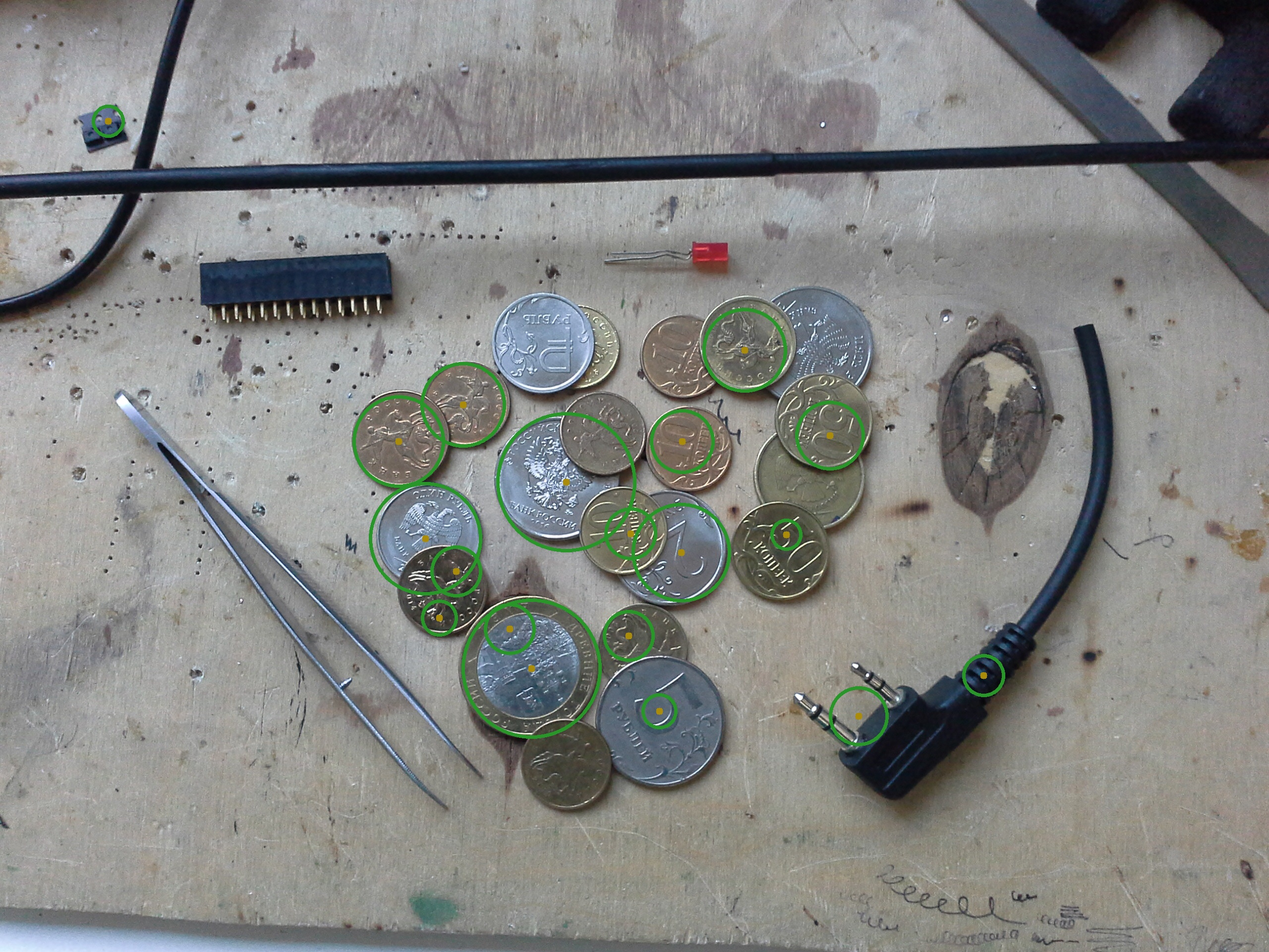
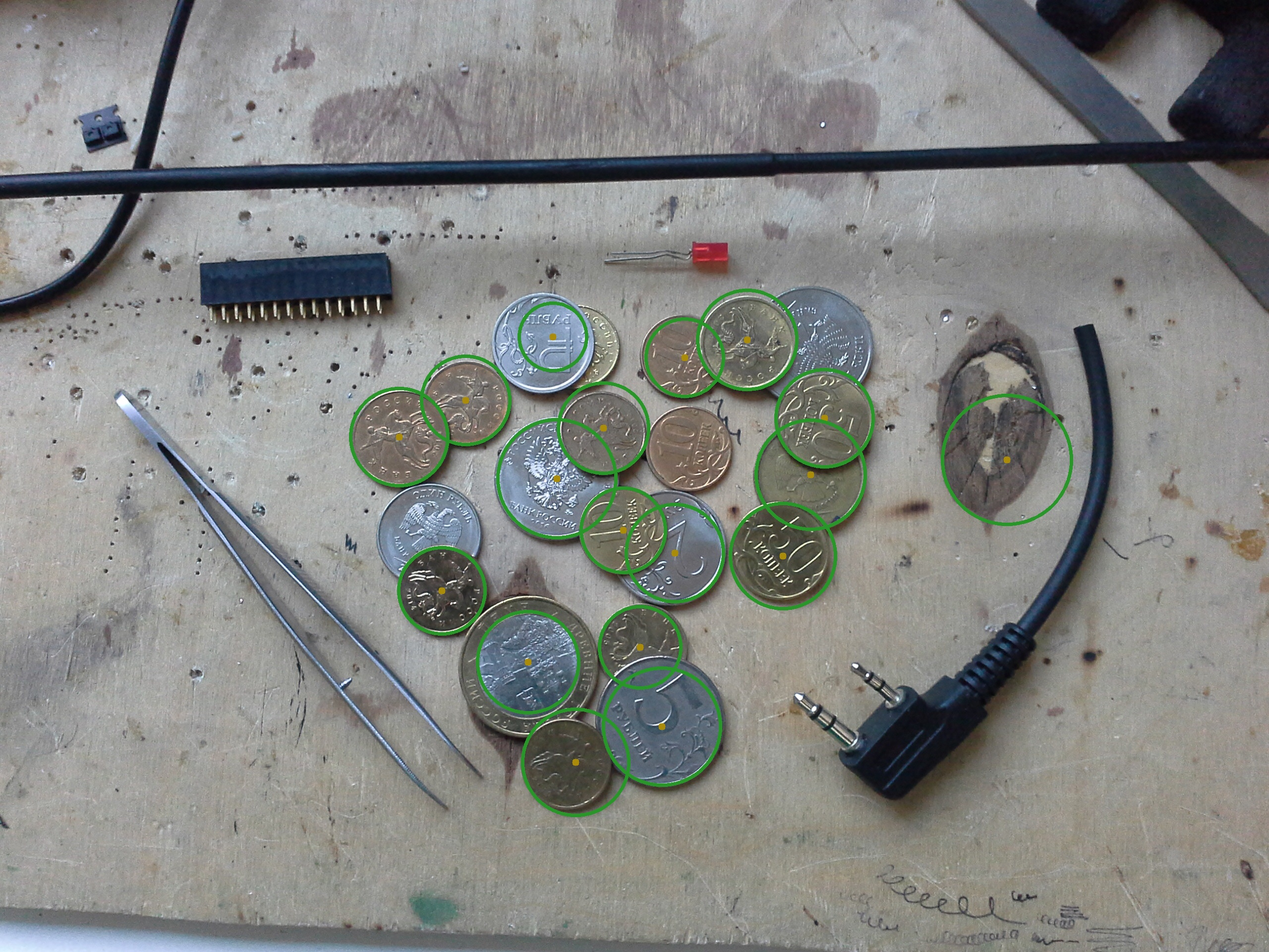
Now with 146% better coin recognition!
And 146x times slower. :(

diff --git a/src.py b/src.py
@@ -2,17 +2,94 @@ import numpy;
 import cv2;
 import os;
 
-IMAGE_PATH_ROOT = "E:\YandexDisk\Learning\TechnoPark\CUDA\TP_CUDA\photos\\";
-IMAGE_PATH_DETECTOR_IN = "detector\\";
-IMAGE_PATH_DETECTOR_OUT = "detector\out\\";
+IMAGE_PATH_ROOT = "E:\YandexDisk\Learning\TechnoPark\CUDA\TP_CUDA\photos\\"
+IMAGE_PATH_DETECTOR_IN = "detector\\"
+IMAGE_PATH_DETECTOR_OUT = "detector\out\\"
+YELLOW_COIN_COLORS_BGR = [
+    # 10 kops
+    ([45, 65, 85], [45, 65, 85]),       #55412d
+    ([24, 32, 45], [24, 32, 45]),       #2d2018
+    ([30, 45, 59], [30, 45, 59]),       #3b2d1e
+    ([29, 65, 88], [29, 65, 88]),       #58411d
+    ([24, 32, 44], [24, 32, 44]),       #2c2018
+    ([29, 44, 72], [29, 44, 72]),       #482c1d
+    ([35, 58, 88], [35, 58, 88]),       #583a23
+    # 50 kops
+    ([32, 54, 72], [32, 54, 72]),       #483620
+    ([28, 56, 80], [28, 56, 80]),       #50381c
+    ([33, 48, 60], [33, 48, 60]),       #3c3021
+        # enlightened
+    ([96, 167, 208], [96, 167, 208]),   #d0a760
+    ([63, 121, 157], [63, 121, 157]),   #9d793f
+    # 10 roubles
+    ([28, 55, 74], [28, 55, 74]),       #4a371c
+]
+YELLOW_COIN_COLOR_BOUNDARY = ([-10, -10, -15], [15, 15, 20])
+SILVER_COIN_COLORS_BGR = [
+    # 5 roubles
+    ([69, 77, 86], [69, 77, 86]),       #564d45
+    ([68, 73, 76], [68, 73, 76]),       #4c4944
+    ([59, 60, 66], [59, 60, 66]),       #423c3b
+        # enlightened
+    ([124, 173, 202], [124, 173, 202]), #caad7c
+    ([181, 155, 134], [181, 155, 134]), #869bb5
+    #([173, 150, 130], [173, 150, 130]), #8296ad
+    #([141, 126, 112], [141, 126, 112]), #707e8d
+    # 1 rouble
+    ([55, 63, 74], [55, 63, 74]),       #4a3f37
+    # 2 roubles
+    ([59, 65, 72], [59, 65, 72]),       #48413b
+        # enlightened
+    ([136, 188, 210], [136, 188, 210]), #d2bc88
+    # 10 roubles
+    ([82, 85, 86], [82, 85, 86]),       #565552
+]
+SILVER_COIN_COLOR_BOUNDARY = ([-15, -15, -15], [15, 15, 15])
+
+def print_image(image):
+    cv2.namedWindow('image', cv2.WINDOW_NORMAL)
+    cv2.imshow('image', image)
+    cv2.resizeWindow('image', 1024, 768)
+    cv2.waitKey(0)
+
+def apply_masks(image):
+    masked_image = numpy.zeros(image.shape, numpy.uint8)
+    for (lower, upper) in YELLOW_COIN_COLORS_BGR:
+        lower = list(map(sum, zip(lower, YELLOW_COIN_COLOR_BOUNDARY[0])))
+        lower = numpy.array(lower, dtype="uint8")
+        upper = list(map(sum, zip(upper, YELLOW_COIN_COLOR_BOUNDARY[1])))
+        upper = numpy.array(upper, dtype="uint8")
+
+        mask = cv2.inRange(image, lower, upper)
+        current_masked_image = cv2.bitwise_and(image, image, mask=mask)
+        masked_image = cv2.bitwise_or(masked_image, current_masked_image)
+
+    for (lower, upper) in SILVER_COIN_COLORS_BGR:
+        lower = list(map(sum, zip(lower, SILVER_COIN_COLOR_BOUNDARY[0])))
+        lower = numpy.array(lower, dtype="uint8")
+        upper = list(map(sum, zip(upper, SILVER_COIN_COLOR_BOUNDARY[1])))
+        upper = numpy.array(upper, dtype="uint8")
+
+        mask = cv2.inRange(image, lower, upper)
+        current_masked_image = cv2.bitwise_and(image, image, mask=mask)
+        masked_image = cv2.bitwise_or(masked_image, current_masked_image)
+
+    return masked_image
+"""
+    cv2.namedWindow('images', cv2.WINDOW_NORMAL)
+    cv2.imshow("images", numpy.hstack([image, masked_image]))
+    cv2.resizeWindow('images', 2048, 768)
+    cv2.waitKey(0)
+"""
 
 def preprocess_image(image):
-    smoother = numpy.ones((13, 13), numpy.float32) / (10*10);
-    smoothed = cv2.filter2D(image, -1, smoother);
-    blurred = cv2.GaussianBlur(smoothed, (15, 15), 0);
-    #bilatered = cv2.bilateralFilter(image, 45, 160, 200);  # http://docs.opencv.org/3.0-beta/modules/imgproc/doc/filtering.html?highlight=bilateral#cv2.bilateralFilter
-    thresholded = cv2.adaptiveThreshold(blurred, 255, cv2.ADAPTIVE_THRESH_GAUSSIAN_C, cv2.THRESH_BINARY, 15, 1.7);
-    return thresholded;
+    blurred = cv2.GaussianBlur(image, (15, 15), 0)
+    masked = apply_masks(blurred)
+    masked = cv2.cvtColor(masked, cv2.COLOR_BGR2GRAY)
+    #thresholded = cv2.adaptiveThreshold(masked, 255, cv2.ADAPTIVE_THRESH_GAUSSIAN_C, cv2.THRESH_BINARY, 15, 1.7)
+    _,  thresholded = cv2.threshold(masked, 10, 255, cv2.THRESH_BINARY_INV )
+    blurred_again = cv2.GaussianBlur(thresholded, (37, 37), 0)
+    return blurred_again
 """
     cv2.namedWindow('original', cv2.WINDOW_NORMAL);
     cv2.namedWindow('smoothed', cv2.WINDOW_NORMAL);
@@ -32,25 +109,30 @@ def preprocess_image(image):
 """
 
 def get_circles(image):
-    circles = cv2.HoughCircles(image, cv2.cv.CV_HOUGH_GRADIENT, 1, 90, param1=100, param2=30, minRadius=0, maxRadius=150);
-    return numpy.uint16(numpy.around(circles));
+    circles = cv2.HoughCircles(image, cv2.cv.CV_HOUGH_GRADIENT, 2, 100, param1=100, param2=85, minRadius=25, maxRadius=150);
+    if circles != None:
+        circles = numpy.uint16(numpy.around(circles))
+    return circles
 
 
 path = IMAGE_PATH_ROOT+IMAGE_PATH_DETECTOR_IN;
 filenames = next(os.walk(path))[2];
 for image in filenames:
-    img_gray = cv2.imread(path+image, 0);
-    circles = get_circles(preprocess_image(img_gray));
+    img_gray = cv2.imread(path+image, -1);
+    filtered_image = preprocess_image(img_gray);
+
+    circles = get_circles(filtered_image)
 
     img = cv2.imread(path+image, -1);
-    for i in circles[0,:]:
-        cv2.circle(img,(i[0],i[1]),i[2],(40,150,40),5)
-        cv2.circle(img,(i[0],i[1]),2,(10,140,170),10)
+    if circles != None:
+        for i in circles[0,:]:
+            cv2.circle(img,(i[0],i[1]),i[2],(40,150,40),5)
+            cv2.circle(img,(i[0],i[1]),2,(10,140,170),10)
 
-    cv2.namedWindow('circles', cv2.WINDOW_NORMAL);
-    cv2.imshow('circles', img);
+    cv2.namedWindow(image, cv2.WINDOW_NORMAL);
+    cv2.imshow(image, img);
     cv2.imwrite(IMAGE_PATH_ROOT+IMAGE_PATH_DETECTOR_OUT+image, img)
-    cv2.resizeWindow('circles', 1024, 768);
+    cv2.resizeWindow(image, 1024, 768);
 
-    cv2.waitKey(0);
-    cv2.destroyAllWindows();
+cv2.waitKey(0);
+cv2.destroyAllWindows();
